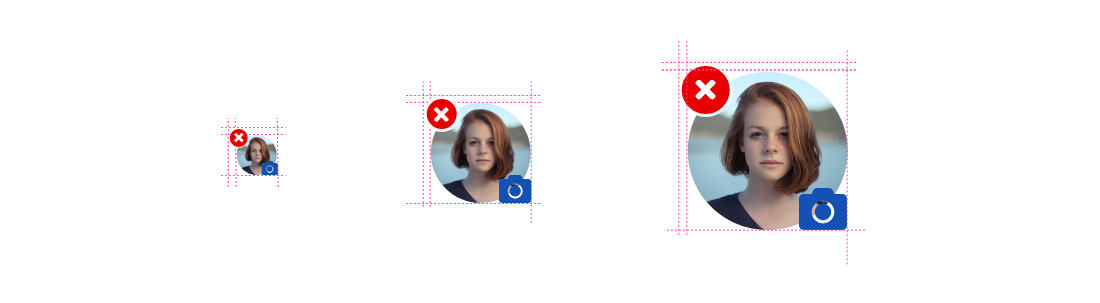
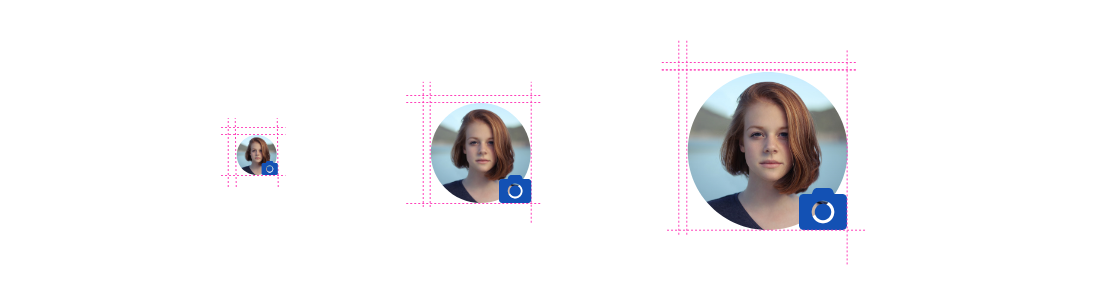
atualização de documentação de design

Changed region(s): [[0.6182, 0.2079, 0.68, 0.3861], [0.3709, 0.3267, 0.4327, 0.4455], [0.1855, 0.4158, 0.2473, 0.4752]]

diff --git a/docs/components/avatar/avatar-dsg.md b/docs/components/avatar/avatar-dsg.md
@@ -84,11 +84,12 @@ Quando o usuário não fez _upload_ de nenhuma imagem o avatar icônico será ut
 
 #### Comportamento:
 
-Nunca é demais lembrar que sempre que um avatar aparecer pela primeira vez, em qualquer circunstância, será do tipo icônico. O usuário poderá fazer o _upload_ de sua própria foto (ou qualquer outra de sua escolha) para representá-lo no momento que desejar. Ao passar o mouse sobre o avatar (_hover_), o ícone Camera (fa-camera) é apresentado indicando ao usuário que ao clicar em qualquer parte da imagem poderá realizar o _upload_ de outra imagem de sua escolha. A partir de então, o sistema sempre exibirá o novo avatar com a nova imagem escolhida pelo usuário. O mesmo poderá a qualquer momento alterar a imagem, ou mesmo desabilitá-la. Neste caso, o avatar icônico voltará a ser utilizado como padrão.
+Nunca é demais lembrar que sempre que um avatar aparecer pela primeira vez, em qualquer circunstância, será do tipo icônico. O usuário poderá fazer o _upload_ de sua própria foto (ou qualquer outra de sua escolha) para representá-lo no momento que desejar. Ao passar o mouse sobre o avatar (_hover_), o ícone Camera (fa-camera) é apresentado indicando ao usuário que ao clicar em qualquer parte da imagem poderá realizar o _upload_ de outra imagem de sua escolha. A partir de então, o sistema sempre exibirá o novo avatar com a nova imagem escolhida pelo usuário. O mesmo poderá a qualquer momento alterar a imagem, ou mesmo excluí-la. Neste caso, o avatar icônico voltará a ser utilizado como padrão.
 
 ![Exemplo Tipo](imagens/avatar-foto-icon-large-usos.png)
 
-Ao passar o mouse sobre a foto (_Hover_), o _badge_ com o ícone de deletar é apresentado ao usuário. Neste momento, o usuário tem a opção de deleter a foto ou trocar por outra.
+Ao passar o mouse sobre a foto (_Hover_), o ícone Camera fica disponível indicando que a foto poderá ser editada, isto é, ser trocada ou mesmo deletada. Neste momento, o usuário pode clicar em qualquer local da foto e será então levado para outra tela para realizar a ação desejada.
+
 No caso de dispositivos móveis, o mesmo comporamento será conseguindo tocando com o dedo na foto e mantendo o toque por dois segundos. A partir de então as mesmas opções de deletar ou alterar a foto são apresentadas.
 
 ![Exemplo Tipo](imagens/avatar-deletar-foto.png)
@@ -128,7 +129,7 @@ Basicamente, existem duas variações de avatar: o fotográfico e o icônico. Es
 
 ### Detalhamento do tipo
 
-Com finalidade de auxiliar o desenvolvedor, especificamos as dimensões das três variações na escala de avatares:
+Com finalidade de auxiliar, especificamos as dimensões das três variações na escala de avatares:
 
 ![Exemplo Tipo](imagens/avatar-foto-pequeno-espacamento.png)
 
@@ -152,13 +153,13 @@ A imagem acima sugere que a usuária Márcia possui cinco notificações não li
 
 2- Em _Cards_, com finalidade de identificação do usuário:
 
-O avatar pode ser utilizado em diversos formatos de _cards_ (ver componente _Card_), de acordo com sua aplicação. Geralmente a finalidade é de identificação do usuário com um texto mais detalhado. Pode ser utilizado também para permitir a alteração da imagem do avatar. Neste caso, o processo pode ser por meio de clique no ícone Camera (fa-camera) ou simplesmente arrastando a imagem para a imagem do avatar.
+O avatar pode ser utilizado em diversos formatos de _cards_ (ver componente _Card_), de acordo com sua aplicação. Geralmente a finalidade é de identificação do usuário com um texto mais detalhado. Pode ser utilizado também para permitir a alteração da imagem do avatar. Neste caso, o processo pode ser por meio de clique na foto já descrito anteriormente.
 
 ![Exemplo Tipo](imagens/avatar-large-aplicacoes.png)
 
 3- Em Telas de Boas vindas:
 
-Sugerimos também a utilização de avatares para identificar usuários em telas de boas vindas. No exemplo abaixo, após a realização do _login_ biométrico, o usuário pode visualizar o _feedback_ com a tela de boas vindas confirmando que o _login_ foi realizado com sucesso.
+Sugerimos também a utilização de avatares para identificação de usuários em telas de boas vindas.
 
 ![Exemplo Tipo](imagens/avatar-medium-aplicacoes.png)
 
@@ -231,6 +232,7 @@ Ainda é possível e sugerido a utilização de avatares em contextos de _chat_ 
 | Icon Fechar                | color    | `--color-primary-default`   | 100%    |
 | Icon User (avatar icônico) | color    | `--color-primary-pastel-01` | 100%    |
 | Icon Camera                | color    | `--color-primary-default`   | 100%    |
+| Conteiner                  | color    | `--color-primary-pastel-02` | 100%    |
 
 ### Estado
 
